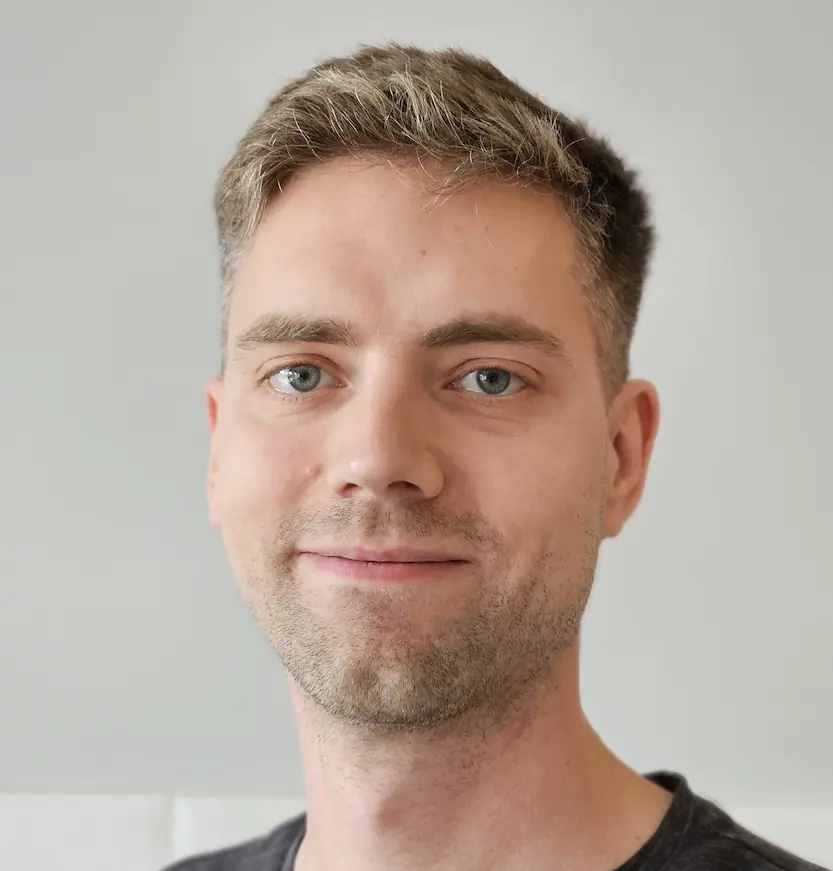
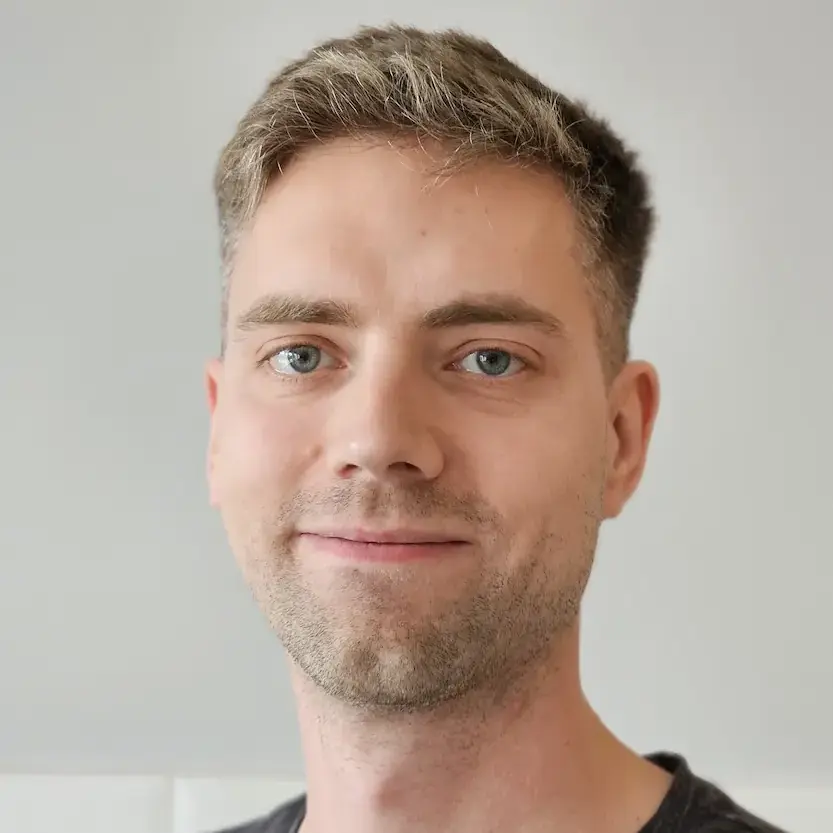
Lighthouse findings (#101)
* underline links

* allow testing beta

* Increase contrast

* Increase contrast in dark mode

* spacing between socials

* crop image

* lighthouse workflow dark and light

* inputs

* no inputs

* order

* more contrast

diff --git a/zmuda-pro/src/css/custom.css b/zmuda-pro/src/css/custom.css
@@ -146,3 +146,57 @@
     justify-items: center;
   }
 }
+
+/* Keep inline links in text blocks distinguishable beyond color alone. */
+.markdown :where(p, li, td, th, blockquote) a {
+  text-decoration-line: underline;
+  text-decoration-thickness: 0.1em;
+  text-underline-offset: 0.16em;
+  text-decoration-skip-ink: auto;
+}
+
+.markdown :where(p, li, td, th, blockquote) a:hover,
+.markdown :where(p, li, td, th, blockquote) a:focus-visible {
+  text-decoration-thickness: 0.14em;
+}
+
+.markdown :where(p, li, td, th, blockquote) a:focus-visible {
+  outline: 2px solid currentColor;
+  outline-offset: 2px;
+}
+
+/* Raise light-theme syntax token contrast to satisfy WCAG in code blocks. */
+html[data-theme='light'] .theme-code-block .token.comment,
+html[data-theme='light'] .theme-code-block .token.prolog,
+html[data-theme='light'] .theme-code-block .token.doctype,
+html[data-theme='light'] .theme-code-block .token.cdata {
+  color: #4b5563 !important;
+}
+
+html[data-theme='light'] .theme-code-block .token.key,
+html[data-theme='light'] .theme-code-block .token.atrule {
+  color: #005a9c !important;
+}
+
+html[data-theme='light'] .theme-code-block .token.string {
+  color: #9a1b5a !important;
+}
+
+html[data-theme='light'] .theme-code-block .token.boolean,
+html[data-theme='light'] .theme-code-block .token.number {
+  color: #006b68 !important;
+}
+
+/* Improve dark-theme code comment contrast (Dracula comments are too dim). */
+html[data-theme='dark'] .theme-code-block .token.comment,
+html[data-theme='dark'] .theme-code-block .token.prolog,
+html[data-theme='dark'] .theme-code-block .token.doctype,
+html[data-theme='dark'] .theme-code-block .token.cdata {
+  color: #aebee8 !important;
+}
+
+/* Ensure author social links have adequate tap target size and spacing. */
+[class*='authorSocials_'] {
+  display: flex;
+  column-gap: 0.375rem;
+}

diff --git a/zmuda-pro/docusaurus.config.js b/zmuda-pro/docusaurus.config.js
@@ -124,6 +124,11 @@ const config = {
         theme: prismThemes.github,
         darkTheme: prismThemes.dracula,
       },
+      colorMode: {
+        defaultMode: 'light',
+        disableSwitch: false,
+        respectPrefersColorScheme: true,
+      },
       zoom: {
         selector: '.markdown :not(em) > img',
         background: {
